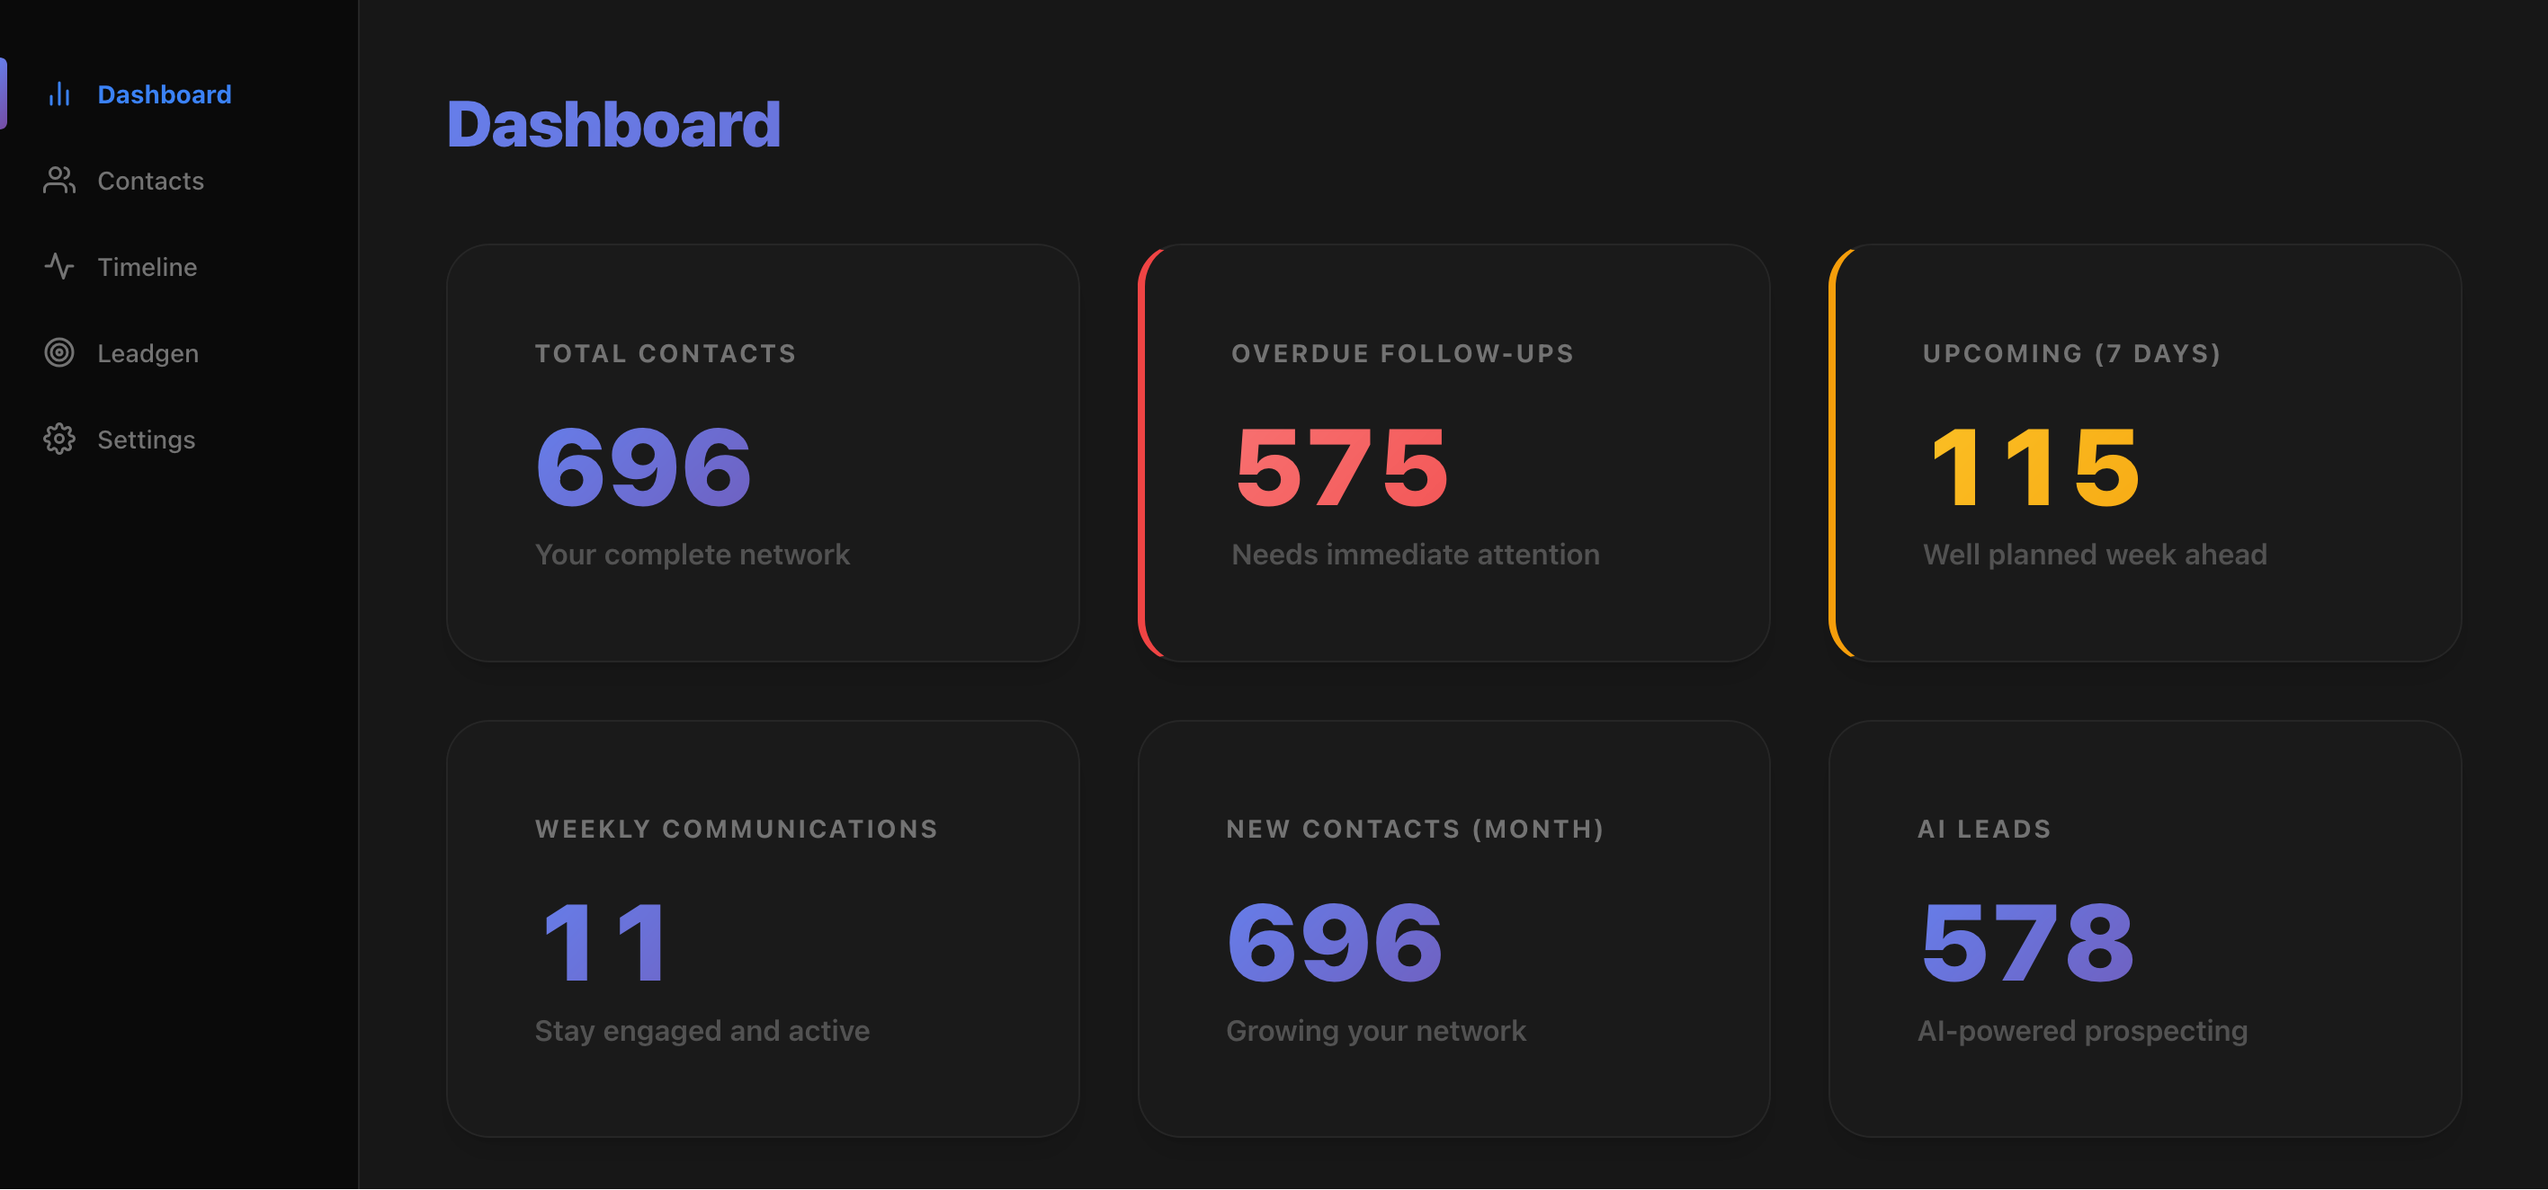
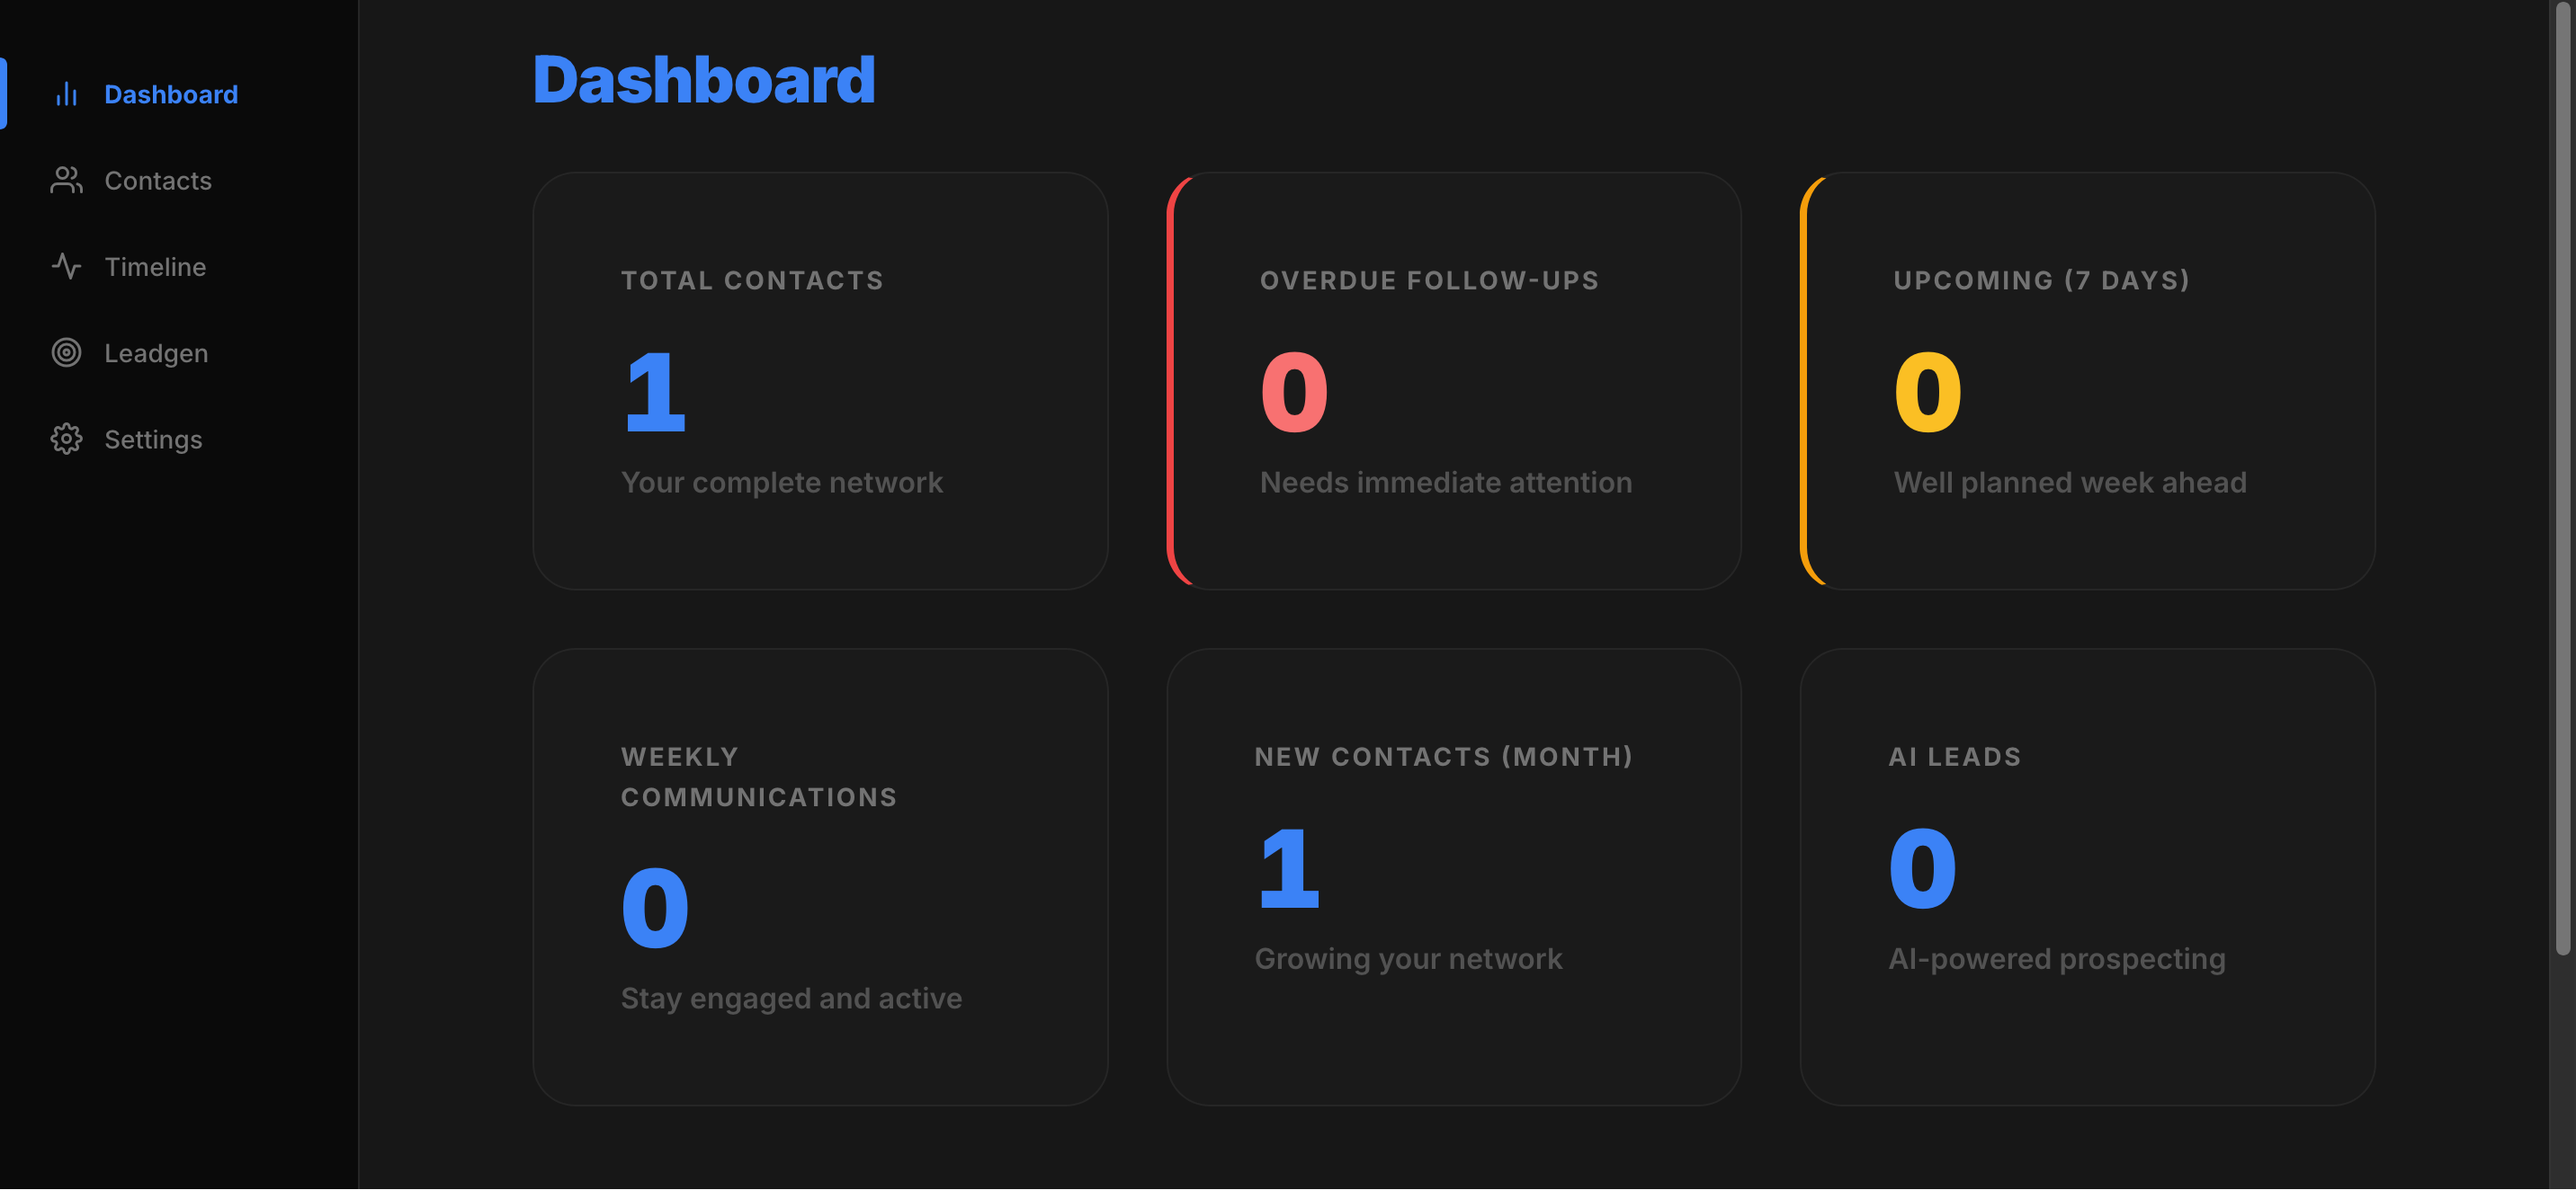
Update README

diff --git a/README.md b/README.md
@@ -1,10 +1,10 @@
 # Book of Business - CRM & Lead Generation
 
-**Alpha Software Disclaimer**: This software is in active development. Features may change and database schema updates may require data migration. Use in production environments at your own risk.
+```**Alpha Software Disclaimer**: This software is in active development. Features may change and database schema updates may require data migration. Use in production environments at your own risk.```
 
 A high-performance CRM system with integrated AI-powered lead generation capabilities. Built with Rust for maximum performance, safety, and scalability.
 
-![Book of Business Screenshot](images/light-dashboard.png)
+![Book of Business Screenshot](images/dark-dashboard.png)
 
 ## Features
 
